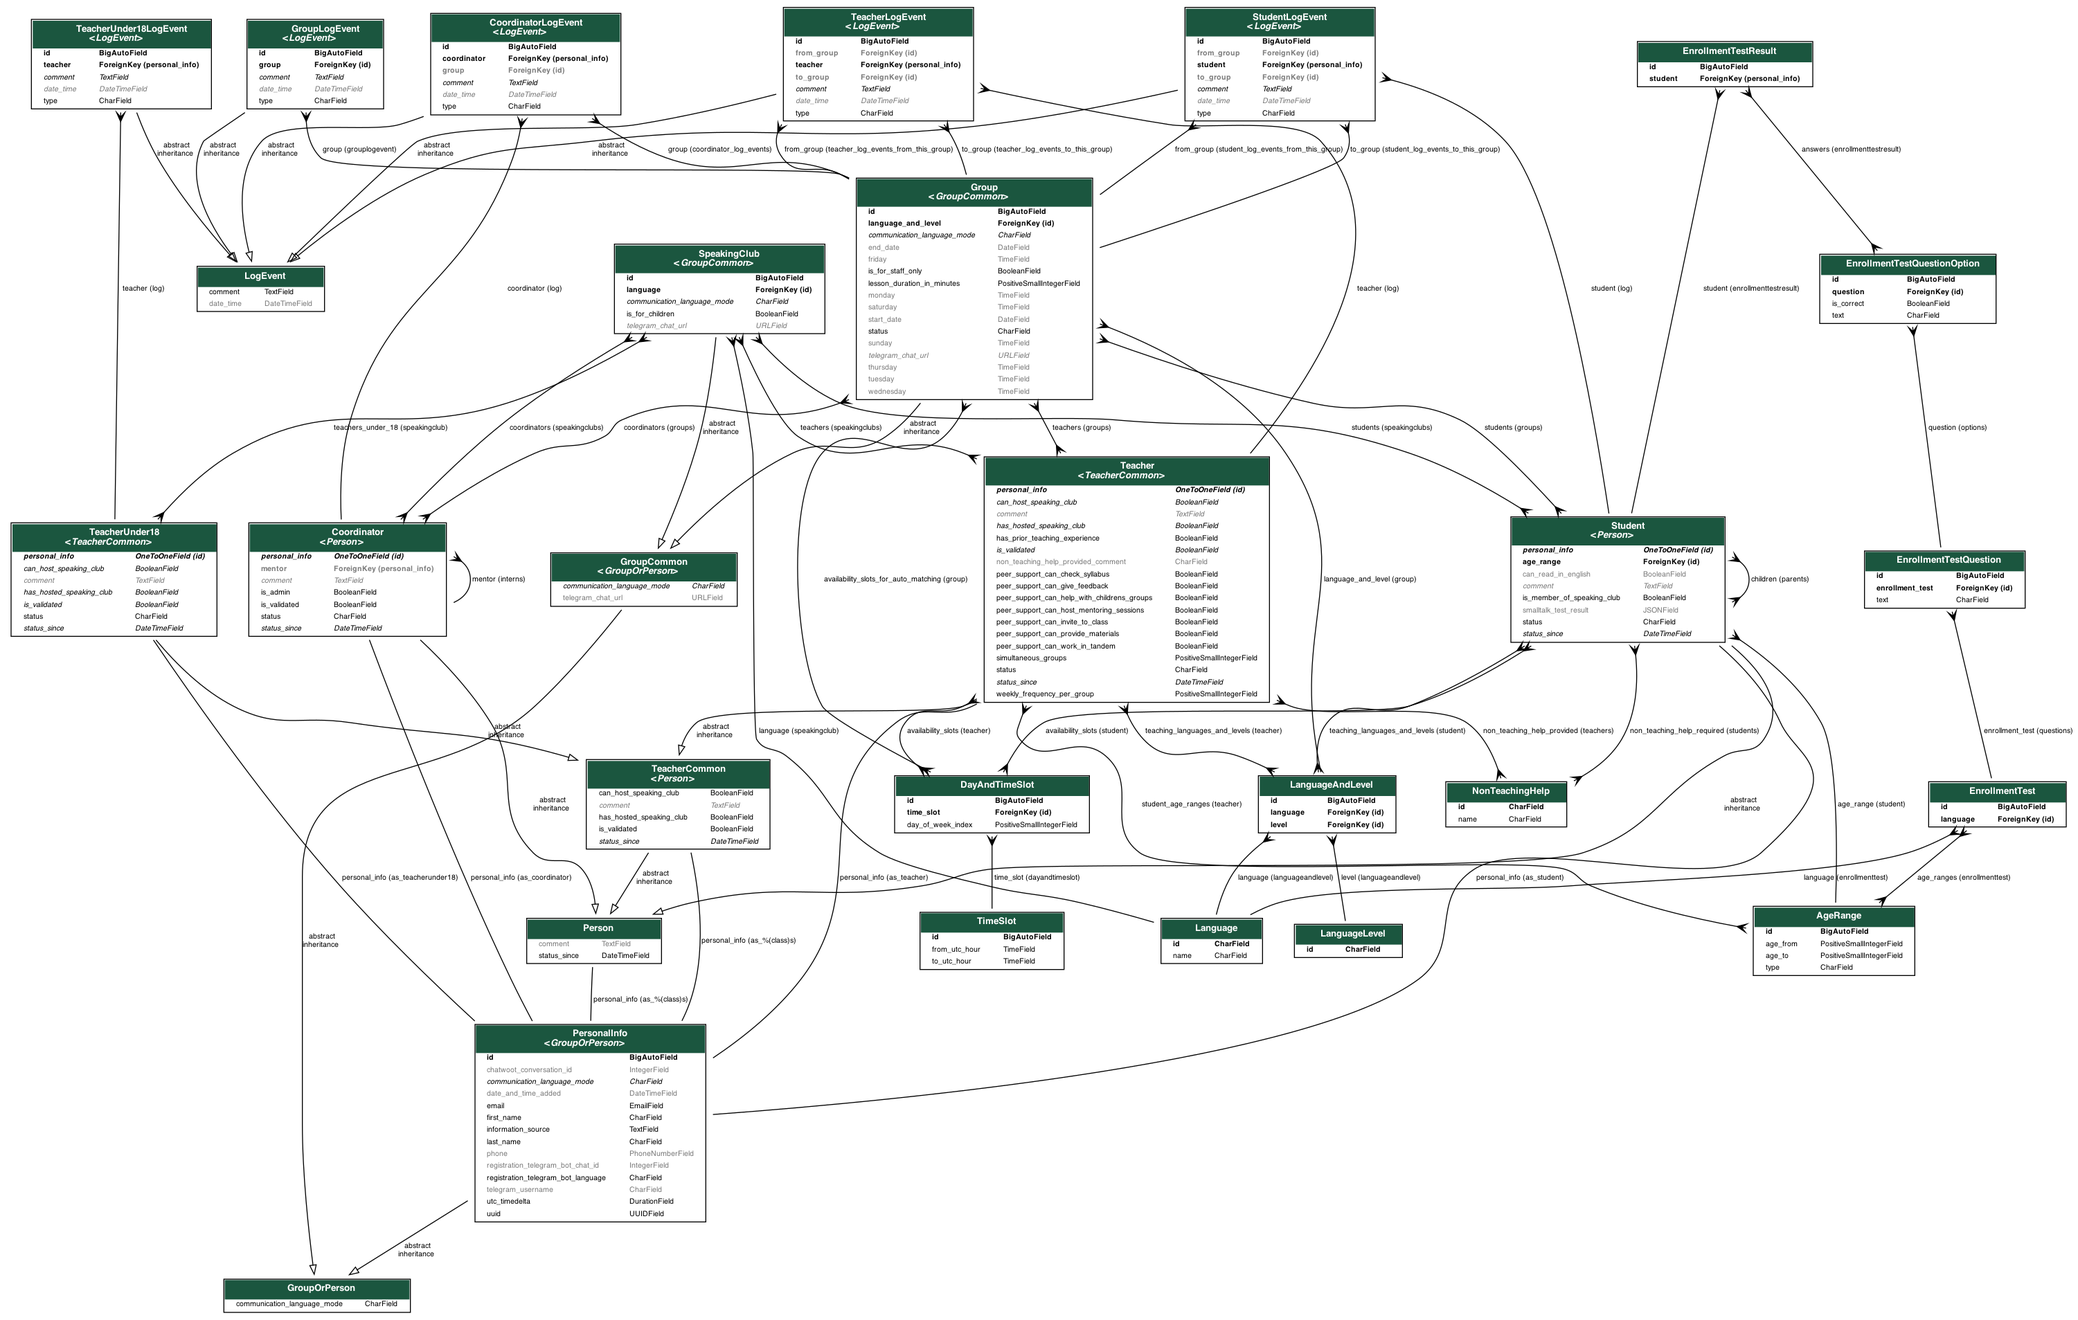
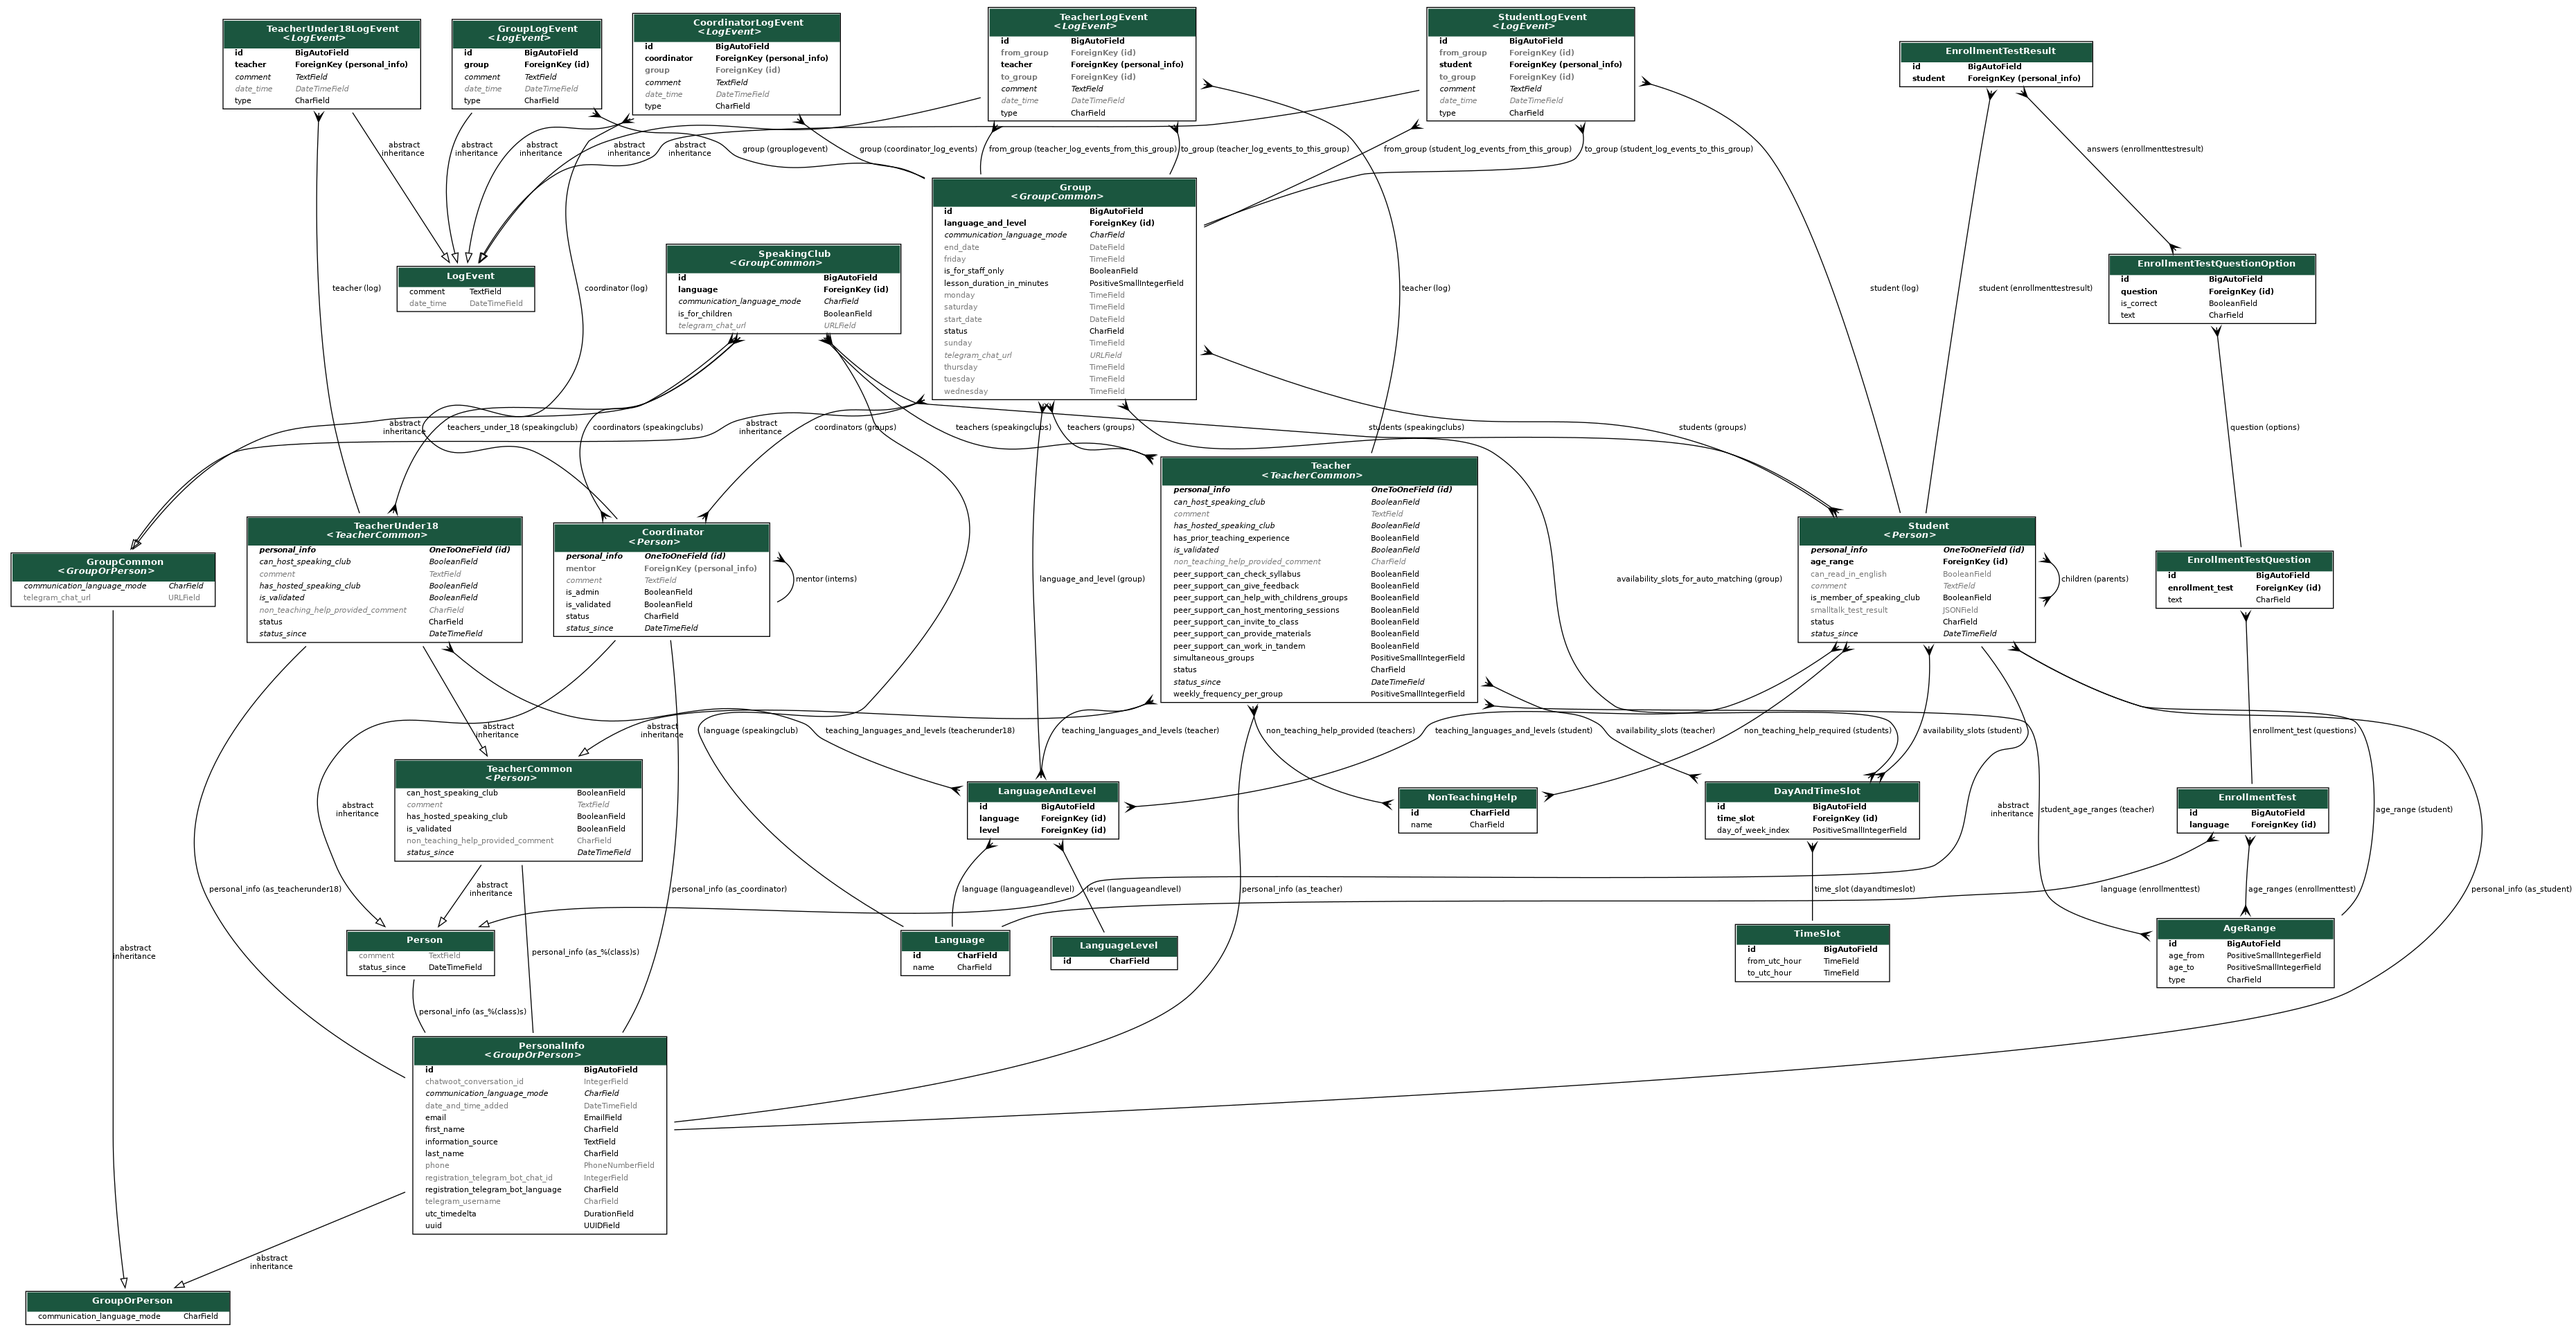
`TeacherUnder18`: include `status` in serializer, add fields to model (#91)
* remove `status` from excluded in young teacher's serializer
* move `non_teaching_help_provided_comment` to `TeacherCommon`.
  `non_teaching_help_provided` remains in adult teachers only. This is
  intended.
* move `teaching_languages_and_levels` to `TeacherCommon` because young
  teachers should be able to select a language of a speaking club they
  want to host

diff --git a/api/migrations/0001_initial.py b/api/migrations/0001_initial.py
@@ -1,4 +1,4 @@
-# Generated by Django 4.2 on 2023-05-13 19:26
+# Generated by Django 4.2.1 on 2023-05-21 18:47
 
 import datetime
 from django.db import migrations, models
@@ -703,19 +703,19 @@ class Migration(migrations.Migration):
                     ),
                 ),
                 (
+                    "non_teaching_help_provided_comment",
+                    models.CharField(
+                        blank=True,
+                        help_text="For adult teacher: other ways in which the applicant could help the students beside listed ones. For teacher under 18: applicant's free-text comment on how they can help our students apart from hosting speaking clubs.",
+                        max_length=255,
+                        verbose_name="comment on additional non-teaching skills",
+                    ),
+                ),
+                (
                     "has_prior_teaching_experience",
                     models.BooleanField(
                         default=False,
                         help_text="has the applicant already worked as a teacher before applying at Samantha Smith's Group?",
-                    ),
-                ),
-                (
-                    "non_teaching_help_provided_comment",
-                    models.CharField(
-                        blank=True,
-                        help_text="other ways in which the applicant could help the students beside listed ones",
-                        max_length=255,
-                        verbose_name="comment on additional non-teaching skills",
                     ),
                 ),
                 (
@@ -836,6 +836,15 @@ class Migration(migrations.Migration):
                     "is_validated",
                     models.BooleanField(
                         help_text="Has an initial validation interview been conducted with this teacher?"
+                    ),
+                ),
+                (
+                    "non_teaching_help_provided_comment",
+                    models.CharField(
+                        blank=True,
+                        help_text="For adult teacher: other ways in which the applicant could help the students beside listed ones. For teacher under 18: applicant's free-text comment on how they can help our students apart from hosting speaking clubs.",
+                        max_length=255,
+                        verbose_name="comment on additional non-teaching skills",
                     ),
                 ),
                 (
@@ -1032,9 +1041,10 @@ class Migration(migrations.Migration):
                 to="api.teacherunder18",
             ),
         ),
-        migrations.AddIndex(
+        migrations.AddField(
             model_name="teacherunder18",
-            index=models.Index(fields=["status"], name="teacher_under_18_status_idx"),
+            name="teaching_languages_and_levels",
+            field=models.ManyToManyField(to="api.languageandlevel"),
         ),
         migrations.AddField(
             model_name="teacherlogevent",
@@ -1211,6 +1221,10 @@ class Migration(migrations.Migration):
         migrations.AddIndex(
             model_name="teacherunder18logevent",
             index=models.Index(fields=["type"], name="teacher_log_event_type_idx"),
+        ),
+        migrations.AddIndex(
+            model_name="teacherunder18",
+            index=models.Index(fields=["status"], name="teacher_under_18_status_idx"),
         ),
         migrations.AddIndex(
             model_name="teacherlogevent",

diff --git a/tests/tests_api/test_teacher_under_18.py b/tests/tests_api/test_teacher_under_18.py
@@ -2,30 +2,57 @@ import pytz
 from model_bakery import baker
 from rest_framework import status
 
-from api.models import PersonalInfo, TeacherUnder18
+from api.models import LanguageAndLevel, PersonalInfo, TeacherUnder18
+from api.models.choices.statuses import TeacherUnder18Status
 
 
 def test_teacher_under_18_create(api_client, faker):
     initial_count = TeacherUnder18.objects.count()
     personal_info = baker.make(PersonalInfo)
 
+    teaching_languages_and_levels_ids = [
+        LanguageAndLevel.objects.first().id,
+        LanguageAndLevel.objects.last().id,
+    ]
+
     data = {
         "personal_info": personal_info.id,
         "can_host_speaking_club": faker.pybool(),
         "comment": faker.text(),
+        "status": TeacherUnder18Status.ACTIVE.value,
         "status_since": faker.date_time(tzinfo=pytz.utc),
+        "teaching_languages_and_levels": teaching_languages_and_levels_ids,
         "has_hosted_speaking_club": faker.pybool(),
         "is_validated": faker.pybool(),
+        "non_teaching_help_provided_comment": faker.text(),
     }
     response = api_client.post("/api/teachers_under_18/", data=data)
     assert response.status_code == status.HTTP_201_CREATED
 
     assert TeacherUnder18.objects.count() == initial_count + 1
+
+    m2m_fields = ["teaching_languages_and_levels"]
+    # Changing for further filtering
+    for field in m2m_fields:
+        data[f"{field}__in"] = data.pop(field)
+
     assert TeacherUnder18.objects.filter(**data).exists()
 
 
 def test_teacher_under_18_retrieve(api_client):
     teacher_under_18 = baker.make(TeacherUnder18)
+
+    languages_and_levels = [
+        {
+            "id": language_and_level.id,
+            "language": {
+                "id": language_and_level.language.id,
+                "name": language_and_level.language.name,
+            },
+            "level": language_and_level.level.id,
+        }
+        for language_and_level in teacher_under_18.teaching_languages_and_levels.all()
+    ]
 
     response = api_client.get(f"/api/teachers_under_18/{teacher_under_18.personal_info.id}/")
     assert response.status_code == status.HTTP_200_OK
@@ -33,8 +60,10 @@ def test_teacher_under_18_retrieve(api_client):
         "personal_info": teacher_under_18.personal_info.id,
         "comment": teacher_under_18.comment,
         "can_host_speaking_club": teacher_under_18.can_host_speaking_club,
+        "teaching_languages_and_levels": languages_and_levels,
         "status": teacher_under_18.status,
         "status_since": teacher_under_18.status_since.isoformat().replace("+00:00", "Z"),
         "has_hosted_speaking_club": teacher_under_18.has_hosted_speaking_club,
         "is_validated": teacher_under_18.is_validated,
+        "non_teaching_help_provided_comment": teacher_under_18.non_teaching_help_provided_comment,
     }

diff --git a/api/models/people.py b/api/models/people.py
@@ -246,6 +246,17 @@ class TeacherCommon(Person):
     is_validated = models.BooleanField(
         help_text="Has an initial validation interview been conducted with this teacher?"
     )
+    non_teaching_help_provided_comment = models.CharField(
+        max_length=DEFAULT_CHAR_FIELD_MAX_LEN,  # prefer this to TextField for a better search
+        blank=True,
+        verbose_name="comment on additional non-teaching skills",
+        help_text=(
+            "For adult teacher: other ways in which the applicant could help the students beside "
+            "listed ones. For teacher under 18: applicant's free-text comment on how they can "
+            "help our students apart from hosting speaking clubs."
+        ),
+    )
+    teaching_languages_and_levels = models.ManyToManyField(LanguageAndLevel)
 
     class Meta:
         abstract = True
@@ -266,12 +277,6 @@ class Teacher(TeacherCommon):
         blank=True,
         related_name="teachers",
         verbose_name="Types of non-teaching help this teacher can provide to students",
-    )
-    non_teaching_help_provided_comment = models.CharField(
-        max_length=DEFAULT_CHAR_FIELD_MAX_LEN,  # prefer this to TextField for a better search
-        blank=True,
-        verbose_name="comment on additional non-teaching skills",
-        help_text="other ways in which the applicant could help the students beside listed ones",
     )
 
     # Peer support. When a new teacher is added, they cannot have these set to True unless they
@@ -319,7 +324,6 @@ class Teacher(TeacherCommon):
         "The 'from's and 'to's of these ranges are wider than those the students choose "
         "for themselves.",
     )
-    teaching_languages_and_levels = models.ManyToManyField(LanguageAndLevel)
     weekly_frequency_per_group = models.PositiveSmallIntegerField(
         help_text=(
             "number of times per week the teacher can have classes with each group. "

diff --git a/api/serializers/teacher_under_18.py b/api/serializers/teacher_under_18.py
@@ -6,7 +6,7 @@ from api.models import TeacherUnder18
 class TeacherUnder18WriteSerializer(serializers.ModelSerializer[TeacherUnder18]):
     class Meta:
         model = TeacherUnder18
-        exclude = ("status",)
+        fields = "__all__"
 
 
 class TeacherUnder18ReadSerializer(serializers.ModelSerializer[TeacherUnder18]):

diff --git a/api/serializers/teacher.py b/api/serializers/teacher.py
@@ -21,7 +21,7 @@ from api.serializers.utc_timedelta import UTCTimedeltaField
 class TeacherWriteSerializer(serializers.ModelSerializer[Teacher]):
     class Meta:
         model = Teacher
-        exclude = ()
+        fields = "__all__"
 
 
 class TeacherReadSerializer(serializers.ModelSerializer[Teacher]):
